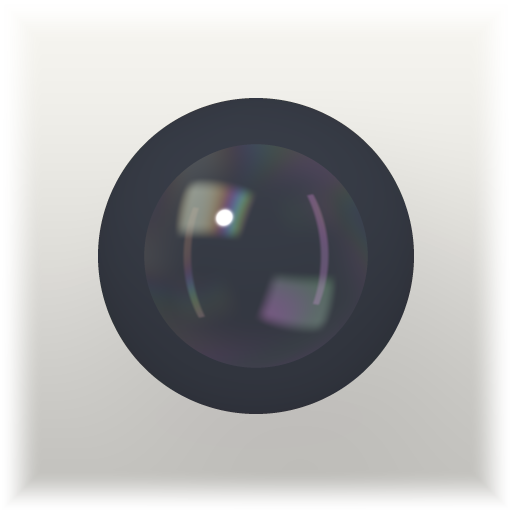
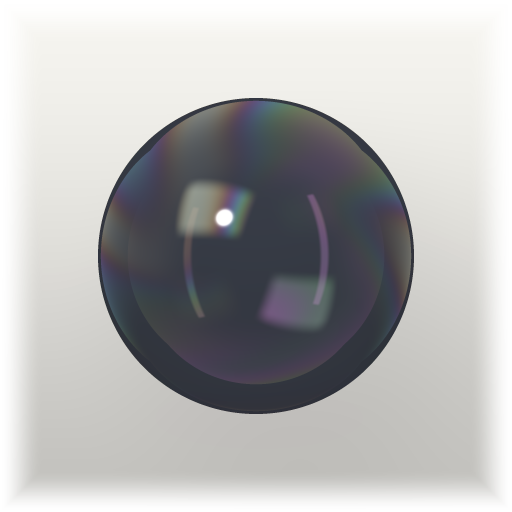
The mark's rim mirrors the studio as the tile's does; the landing page loses its picture of Home
Past the tile's reach a ray sees the studio, for the mark now as for the tile; the
mark had sent it to the page and its rim lost the lights it mirrors. Measured
against the tile from the same shader on white, the mark now differs by under one
step in 255 on average, and at most 35 on the shadow's faded corner.

The LandingPreview under the hero goes, the owner's call, and its component with it.

diff --git a/src/components/marketing/header-section/hero-geometric-shapes-04.tsx b/src/components/marketing/header-section/hero-geometric-shapes-04.tsx
@@ -1,4 +1,3 @@
-import { LandingPreview } from "@/components/app/landing-preview";
 import { LinkButton } from "@/components/app/link-button";
 import { OrbMark } from "@/components/app/orb-mark";
 import { PublicTopBar } from "@/components/app/public-top-bar";
@@ -8,11 +7,8 @@ import { PublicTopBar } from "@/components/app/public-top-bar";
 // the page ships no react-aria; the hero carries one call to
 // action, Get started, so it never competes with the bar's pair.
 //
-// The copy stands left and the product beside it, as Origin, Oku and Monarch set a tracking
-// product's hero: five columns of words, seven of picture from md up, four and eight from xl,
-// where the picture's four tiles stand in a row; on a phone the words first and the picture
-// under them, full width. The picture is Home drawn from the app's own parts (LandingPreview),
-// not a screenshot, so it never goes stale.
+// The mark, the words and the two ways in, centered, and nothing under them: the picture of
+// Home that stood there went on the owner's call (2026-09-30).
 export const HeroGeometricShapes04 = () => {
     return (
         <div className="relative flex min-h-dvh flex-col overflow-hidden bg-primary">
@@ -45,7 +41,6 @@ export const HeroGeometricShapes04 = () => {
                             </LinkButton>
                         </div>
                     </div>
-                    <LandingPreview className="mt-12 w-full max-w-5xl md:mt-16" />
                 </div>
             </main>
 

diff --git a/src/lib/orb-glass.ts b/src/lib/orb-glass.ts
@@ -254,9 +254,9 @@ vec3 traceS(vec3 o, vec3 d) {
     if (d.z < -1e-4) {
         float t = (-SCENE_BD - o.z) / d.z;
         float x = o.x + d.x * t, y = o.y + d.y * t;
-        // The mark has the page for a face: white, or the dark page's colour.
-        if (uScene > 1.5) return uDark > 0.5 ? vec3(0.012, 0.013, 0.018) : vec3(1.0);
-        if (abs(x) < SCENE_SPAN && abs(y) < SCENE_SPAN) return faceS(x, y);
+        // The mark has the page for a face: white, or the dark page's colour. Past the tile's reach
+        // a ray sees the studio, for the mark as for the tile, or the rim loses the lights it mirrors.
+        if (abs(x) < SCENE_SPAN && abs(y) < SCENE_SPAN) return uScene > 1.5 ? (uDark > 0.5 ? vec3(0.012, 0.013, 0.018) : vec3(1.0)) : faceS(x, y);
     }
     return envS(d);
 }
